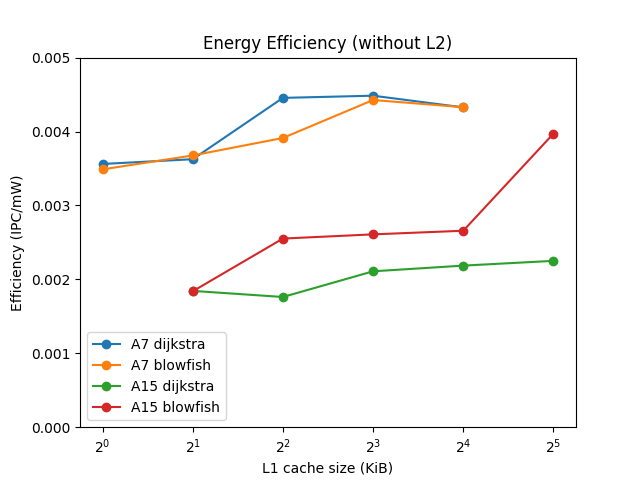
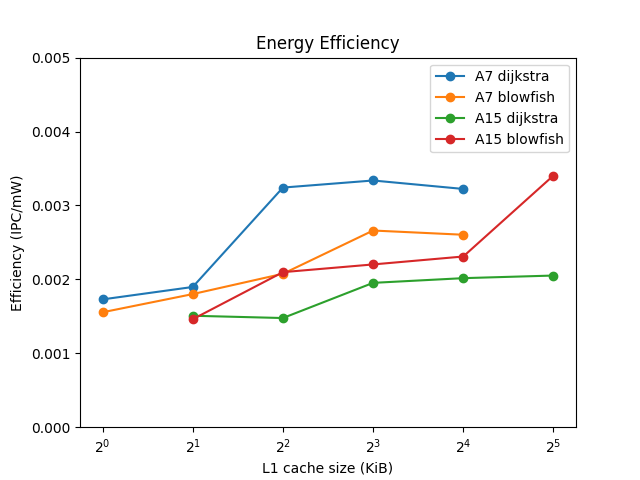
Partie 4 en prenant en compte L2

diff --git a/TP4/partie_3_4/graphs.py b/TP4/partie_3_4/graphs.py
@@ -65,8 +65,6 @@ ax.set_title("Area Efficiency")
 # L1 cache size vs. Efficacité énergétique hors L2
 
 plt.figure(3)
-# A7_power = np.array( [429.5158138326633, 438.290650317782, 439.7005726427026, 444.79356573677114, 462.54843489878095]) #, 504.9631522516877])
-# A15_power = np.array([832.8616820299354, 833.726046018594, 835.0970092875704, 856.5908113613577, 891.8253953687693])
 
 p_rw_dijkstra = .344
 p_rw_blowfish = .2548
@@ -74,11 +72,48 @@ p_rw_blowfish = .2548
 A7_L1_power = np.array([9.064081144350169, 13.451499386909527, 14.156460549369815, 16.70295709640407, 25.580391677408983]) #, 46.78775035386236]
 A15_L1_power = np.array([13.567975081504306, 14.000157075833627, 14.68563871032174, 25.43253974721548, 43.049831750921236])
 
+A7_proc_power = 100
+A15_proc_power = 500
 
-A7_power_dijkstra = 100 + 2 * A7_L1_power * p_rw_dijkstra
-A7_power_blowfish = 100 + 2 * A7_L1_power * p_rw_blowfish
-A15_power_dijkstra = 500 + 2 * A15_L1_power * p_rw_dijkstra
-A15_power_blowfish = 500 + 2 * A15_L1_power * p_rw_blowfish
+A7_L2_power = 311.4
+A15_L2_power = 305.7
+
+
+miss_A_7_IL1_dijkstra = np.array([0.2142, 0.2129, 0.0508, 0.0477, 0.0413])
+miss_A_7_DL1_dijkstra = np.array([0.3727, 0.228, 0.1491, 0.1168, 0.0991])
+# miss_A_7_L2_dijkstra  [0.0001, 0.0001, 0.0003, 0.0003, 0.0004]
+miss_A_7_IL1_blowfish = np.array([0.2396, 0.217, 0.1883, 0.1179, 0.1171])
+miss_A_7_DL1_blowfish = np.array([0.6141, 0.4244, 0.3243, 0.2879, 0.2446])
+# miss_A_7_L2_blowfish  [0.0009, 0.001, 0.0012, 0.002, 0.002]
+miss_A_15_IL1_dijkstra = np.array([0.0754, 0.072, 0.0186, 0.0148, 0.0107])
+miss_A_15_DL1_dijkstra = np.array([0.1359, 0.0897, 0.0659, 0.0433, 0.0195])
+# miss_A_15_L2_dijkstra  [0.0001, 0.0001, 0.0003, 0.0004, 0.0006]
+miss_A_15_IL1_blowfish = np.array([0.1029, 0.0595, 0.059, 0.056, 0.0085])
+miss_A_15_DL1_blowfish = np.array([0.4018, 0.3217, 0.2489, 0.174, 0.033])
+# miss_A_15_L2_blowfish  [0.0012, 0.0021, 0.0021, 0.0023, 0.0156]
+
+
+
+
+# A7_power_dijkstra = A7_proc_power + 2 * A7_L1_power * p_rw_dijkstra
+# A7_power_blowfish = A7_proc_power + 2 * A7_L1_power * p_rw_blowfish
+# A15_power_dijkstra = A15_proc_power + 2 * A15_L1_power * p_rw_dijkstra
+# A15_power_blowfish = A15_proc_power + 2 * A15_L1_power * p_rw_blowfish
+
+
+A7_power_dijkstra = A7_proc_power + (1 + p_rw_dijkstra) * A7_L1_power + \
+    (miss_A_7_IL1_dijkstra + p_rw_dijkstra * miss_A_7_DL1_dijkstra) * A7_L2_power 
+A7_power_blowfish = A7_proc_power + (1 + p_rw_blowfish) * A7_L1_power + \
+    (miss_A_7_IL1_blowfish + p_rw_blowfish * miss_A_7_DL1_blowfish) * A7_L2_power 
+    
+A15_power_dijkstra = A15_proc_power + (1 + p_rw_dijkstra) * A15_L1_power + \
+    (miss_A_7_IL1_dijkstra + p_rw_dijkstra * miss_A_7_DL1_dijkstra) * A15_L2_power 
+A15_power_blowfish = A15_proc_power + (1 + p_rw_blowfish) * A15_L1_power + \
+    (miss_A_7_IL1_blowfish + p_rw_blowfish * miss_A_7_DL1_blowfish) * A15_L2_power 
+
+
+# + miss_rate * A7_L2_power
+
 
 A7_energy_efficiency_dijkstra = A7_IPC_dijkstra / A7_power_dijkstra
 A7_energy_efficiency_blowfish = A7_IPC_blowfish / A7_power_blowfish
@@ -100,7 +135,7 @@ ax.set_xlabel("L1 cache size (KiB)")
 ax.set_ylabel("Efficiency (IPC/mW)")
 
 ax.legend(["A7 dijkstra", "A7 blowfish", "A15 dijkstra", "A15 blowfish"])
-ax.set_title("Energy Efficiency (without L2)")
+ax.set_title("Energy Efficiency")
 
 plt.show()
 

diff --git a/TP4/partie_3_4/prog.py b/TP4/partie_3_4/prog.py
@@ -109,7 +109,7 @@ for proc in ("A7", "A15"):
     print(f"Puissance processeur sans caches : {power_proc:.4}mW")
     print(f"Puissance de chaque cache L1 : {power_L1[5]:.4}mW")
     print(f"Puissance du cache L2 : {power_L2:.4}mW")
-    print(f"Puissance totale (hors L2): {power_proc_plus_L1[5]:.4}mW")
+    print(f"Puissance totale (hors L2) : {power_proc_plus_L1[5]:.4}mW")
     print()
 
     print("Valeurs en fonction de la taille des L1")

diff --git a/TP4/partie_3_4/README.md b/TP4/partie_3_4/README.md
@@ -1,5 +1,5 @@
 Pour les parties 3 et 4, l'exécution des commandes, l'extraction des données, et l'édition des tailles du cache L1 sont automatisées dans le script 'prog.py'  
-Certains calculs et la génération des graphiques se trouvent dans 'graphes.py'  
+Certains calculs et la génération des graphiques se trouvent dans 'graphs.py'  
 
 # 3. Efficacité surfacique
 
@@ -73,25 +73,30 @@ Par dépit, on va considérer que ces deux lignes correspondent aux valeurs moye
 On récupère également les durées d'accès qui permettent de calculer la puissance consommé par le tableau des données et par celui des tags.  
 On somme ces deux valeurs pour trouver la puissance totale consommée par le cache, en considérant que toutes les sources de pertes sont incluses.  
 
-La puissance totale consommée par l'ensemble processeur + caches L1 sera : P_proc + 2 × P_L1 × p_rw  
+La puissance totale consommée par l'ensemble processeur + caches L1 sera : P_proc + (1 + p_rw) × P_L1  
+P_proc + (1 + p_rw) × P_L1 + (miss_IL1 + p_rw × miss_DL1) × P_L2  
+
 Où P_proc est la valeur calculée en Q10, et P_L1 celle déterminée juste avant avec cacti, pondérée par la proportion de lectures et écritures parmi toutes les instructions, déterminée en Q1.  
+Le cache IL1 est sollicité en continu, pour chaque instruction, et DL1 seulement p_rw du temps ; le cache L2 est sollicité seulement en cas de miss des caches IL1 et DL1, qui ont des miss rates distincts, calculés en partie 2.  
+Avec des informations sur la RAM, on pourrait aussi prendre en compte son utilisation, avec le miss rate du cache L2.  
+
 
 Pour Blowfish : p_rw = 22.21% + 3.27% = 25.48%  
 Pour Dijkstra : p_rw = 24.08% + 10.32% = 34.4%  
 
-On aurait pu détailler plus en distinguant la puissance consommée par une lecture ou une écriture.  
+On aurait pu détailler plus en distinguant la puissance consommée par une lecture et par une écriture.  
 
 > --- Processeur Cortex A7 ---  
 > Puissance processeur sans caches : 100.0mW  
 > Puissance de chaque cache L1 : 46.79mW  
 > Puissance du cache L2 : 311.4mW  
-> Puissance totale (hors L2): 193.6mW  
+> Puissance totale (hors L2) : 193.6mW  
 
 > --- Processeur Cortex A15 ---  
 > Puissance processeur sans caches : 500.0mW  
 > Puissance de chaque cache L1 : 43.05mW  
 > Puissance du cache L2 : 305.7mW  
-> Puissance totale (hors L2): 586.1mW  
+> Puissance totale (hors L2) : 586.1mW  
 
 On trace également les efficacités énergétiques pour chaque processeur et chacun des programmes :  
 
